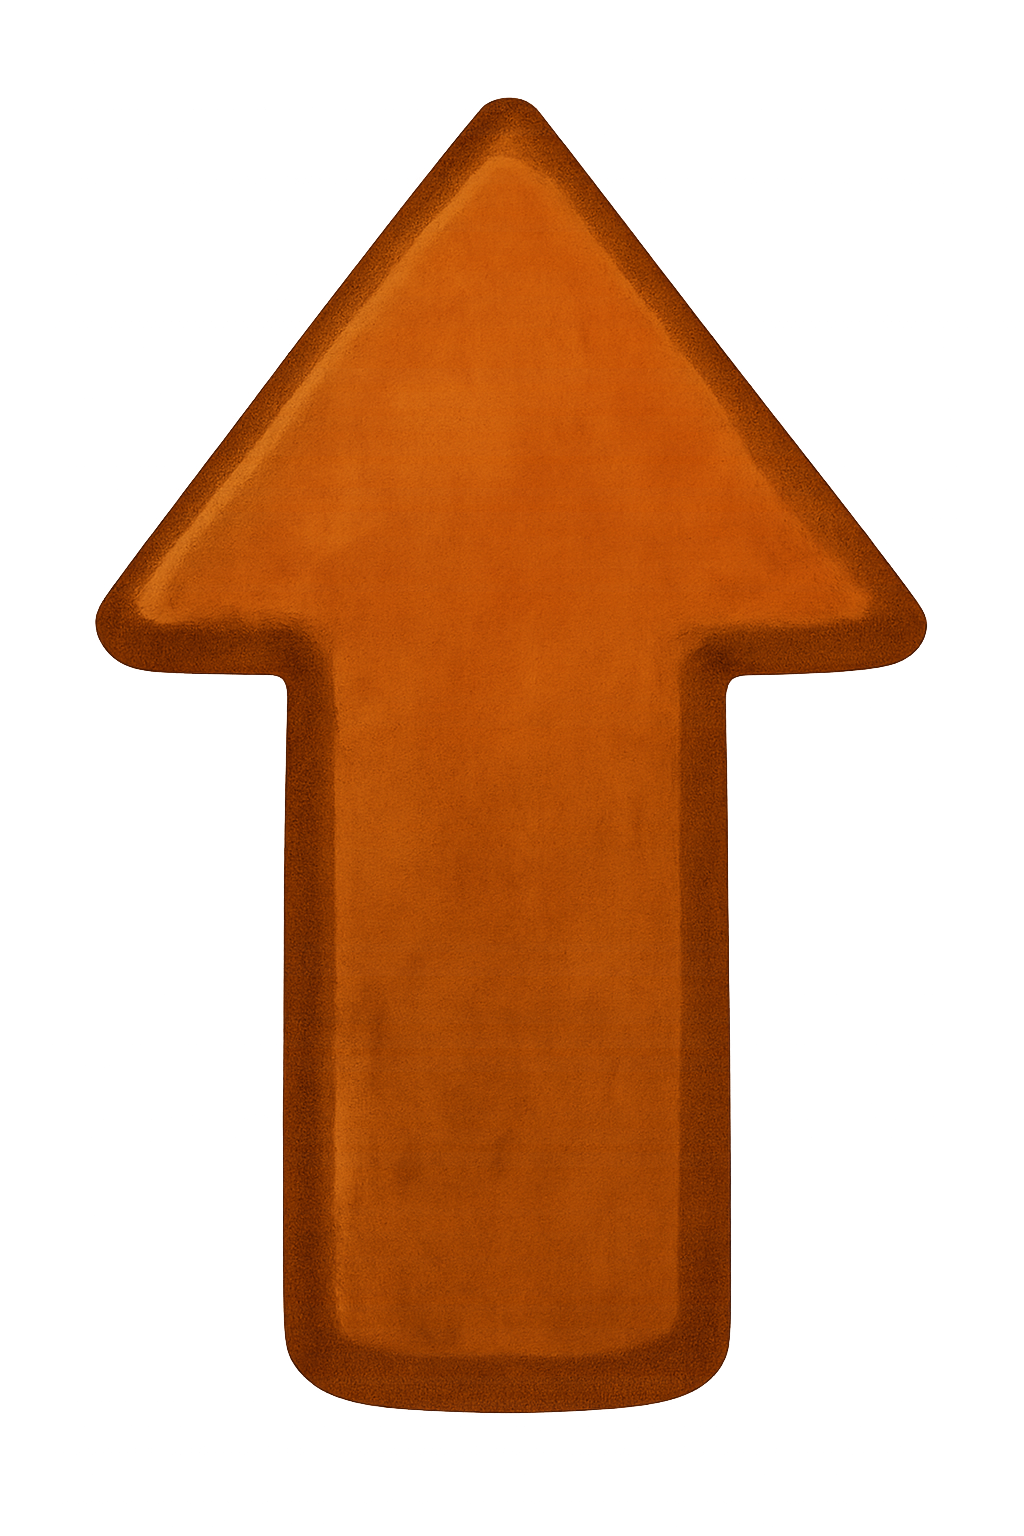
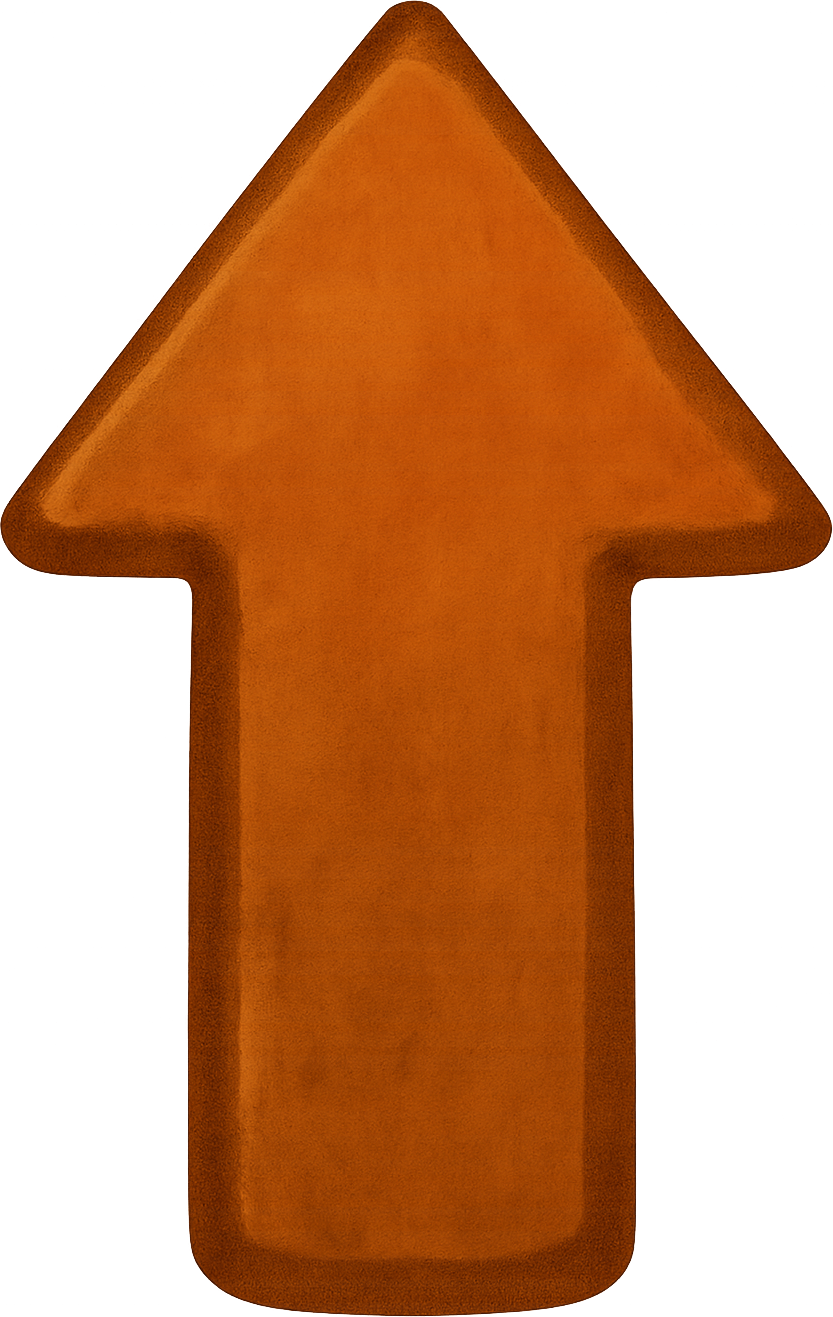
sprite cropping tool and fixed sprites

Changed region(s): [[0.0, 0.0, 0.9988, 1.0]]

diff --git a/crop_sprites.py b/crop_sprites.py
@@ -1,0 +1,254 @@
+#!/usr/bin/env python3
+"""
+Sprite Cropping Tool for RPG Game
+Automatically removes transparent/empty pixels around sprites to improve alignment and reduce file size.
+"""
+
+import os
+import sys
+from PIL import Image, ImageChops
+import argparse
+from pathlib import Path
+
+def get_bounding_box(image, alpha_threshold=10):
+    """
+    Get the bounding box of non-transparent pixels in an image.
+    Only considers pixels with alpha > threshold as "visible".
+    Returns (left, top, right, bottom) or None if image is completely transparent.
+    """
+    if image.mode != 'RGBA':
+        # Convert to RGBA if not already
+        image = image.convert('RGBA')
+    
+    # Get image data as numpy-like array
+    width, height = image.size
+    pixels = list(image.getdata())
+    
+    # Find bounds of pixels with alpha > threshold
+    left = width
+    top = height  
+    right = 0
+    bottom = 0
+    
+    found_pixel = False
+    
+    for y in range(height):
+        for x in range(width):
+            pixel_index = y * width + x
+            r, g, b, a = pixels[pixel_index]
+            
+            if a > alpha_threshold:  # Pixel is visible enough
+                found_pixel = True
+                left = min(left, x)
+                right = max(right, x + 1)  # +1 because crop uses exclusive right/bottom
+                top = min(top, y)
+                bottom = max(bottom, y + 1)  # +1 because crop uses exclusive right/bottom
+    
+    if not found_pixel:
+        return None
+        
+    return (left, top, right, bottom)
+
+def crop_sprite(input_path, output_path=None, backup=True, alpha_threshold=10):
+    """
+    Crop a single sprite image to remove transparent borders.
+    
+    Args:
+        input_path (str): Path to input image
+        output_path (str): Path for output image (defaults to overwrite input)
+        backup (bool): Whether to create backup of original
+        alpha_threshold (int): Alpha threshold for considering pixels visible
+    
+    Returns:
+        tuple: (success, message, (original_size, new_size))
+    """
+    try:
+        # Open the image
+        with Image.open(input_path) as img:
+            original_size = img.size
+            
+            # Get bounding box of non-transparent pixels
+            bbox = get_bounding_box(img, alpha_threshold)
+            
+            if bbox is None:
+                return False, f"Image is completely transparent: {input_path}", (original_size, original_size)
+            
+            left, top, right, bottom = bbox
+            
+            # Check if cropping is needed
+            if left == 0 and top == 0 and right == img.width and bottom == img.height:
+                return True, f"No cropping needed: {input_path}", (original_size, original_size)
+            
+            # Crop the image
+            cropped = img.crop(bbox)
+            new_size = cropped.size
+            
+            # Determine output path
+            if output_path is None:
+                output_path = input_path
+                
+                # Create backup if requested
+                if backup:
+                    backup_path = input_path.replace('.png', '_original.png')
+                    if not os.path.exists(backup_path):
+                        img.save(backup_path)
+            
+            # Save cropped image
+            cropped.save(output_path, 'PNG', optimize=True)
+            
+            saved_pixels = (original_size[0] * original_size[1]) - (new_size[0] * new_size[1])
+            percentage_saved = (saved_pixels / (original_size[0] * original_size[1])) * 100
+            
+            return True, f"Cropped: {input_path} | {original_size} -> {new_size} | {percentage_saved:.1f}% pixels saved", (original_size, new_size)
+            
+    except Exception as e:
+        return False, f"Error processing {input_path}: {str(e)}", (None, None)
+
+def find_sprite_files(directory):
+    """Find all PNG files in the directory and subdirectories."""
+    sprite_files = []
+    for root, dirs, files in os.walk(directory):
+        for file in files:
+            if file.lower().endswith('.png') and not file.endswith('_original.png'):
+                sprite_files.append(os.path.join(root, file))
+    return sprite_files
+
+def test_crop(input_path):
+    """Test function to verify cropping removes ALL transparent borders."""
+    try:
+        with Image.open(input_path) as img:
+            print(f"\nTesting: {input_path}")
+            print(f"Original size: {img.size}")
+            
+            bbox = get_bounding_box(img)
+            if bbox:
+                left, top, right, bottom = bbox
+                print(f"Content bounds: left={left}, top={top}, right={right}, bottom={bottom}")
+                print(f"Transparent borders: left={left}px, top={top}px, right={img.width-right}px, bottom={img.height-bottom}px")
+                
+                if left > 0 or top > 0 or right < img.width or bottom < img.height:
+                    print("✓ Cropping needed - transparent borders detected")
+                else:
+                    print("✓ No transparent borders - already optimally cropped")
+            else:
+                print("✗ Image is completely transparent")
+                
+    except Exception as e:
+        print(f"✗ Error testing {input_path}: {e}")
+
+def main():
+    parser = argparse.ArgumentParser(description='Crop transparent borders from game sprites')
+    parser.add_argument('path', nargs='?', default='assets', 
+                       help='Path to sprite file or directory (default: assets)')
+    parser.add_argument('--no-backup', action='store_true',
+                       help='Don\'t create backup files')
+    parser.add_argument('--output-dir', '-o', type=str,
+                       help='Output directory for cropped sprites')
+    parser.add_argument('--preview', action='store_true',
+                       help='Preview what would be cropped without making changes')
+    parser.add_argument('--test', action='store_true',
+                       help='Test mode - analyze transparent borders in detail')
+    parser.add_argument('--alpha-threshold', type=int, default=10,
+                       help='Alpha threshold for considering pixels visible (default: 10)')
+    
+    args = parser.parse_args()
+    
+    # Check if PIL is available
+    try:
+        from PIL import Image, ImageChops
+    except ImportError:
+        print("Error: PIL (Pillow) is required. Install with: pip install Pillow")
+        return 1
+    
+    # Determine what to process
+    if os.path.isfile(args.path):
+        sprite_files = [args.path]
+    elif os.path.isdir(args.path):
+        sprite_files = find_sprite_files(args.path)
+    else:
+        print(f"Error: Path '{args.path}' does not exist")
+        return 1
+    
+    if not sprite_files:
+        print(f"No PNG sprite files found in '{args.path}'")
+        return 0
+    
+    print(f"Found {len(sprite_files)} sprite files to process...")
+    print("-" * 60)
+    
+    total_processed = 0
+    total_success = 0
+    total_pixels_saved = 0
+    total_files_changed = 0
+    
+    for sprite_file in sprite_files:
+        if args.test:
+            # Test mode - detailed analysis
+            test_crop(sprite_file)
+        elif args.preview:
+            # Preview mode - just analyze without changing
+            try:
+                with Image.open(sprite_file) as img:
+                    bbox = get_bounding_box(img, args.alpha_threshold)
+                    if bbox:
+                        left, top, right, bottom = bbox
+                        original_size = img.size
+                        new_size = (right - left, bottom - top)
+                        
+                        if left == 0 and top == 0 and right == img.width and bottom == img.height:
+                            print(f"✓ No crop needed: {sprite_file}")
+                        else:
+                            saved_pixels = (original_size[0] * original_size[1]) - (new_size[0] * new_size[1])
+                            percentage_saved = (saved_pixels / (original_size[0] * original_size[1])) * 100
+                            print(f"➤ Would crop: {sprite_file} | {original_size} -> {new_size} | {percentage_saved:.1f}% pixels")
+                            print(f"  Borders: L={left}px T={top}px R={img.width-right}px B={img.height-bottom}px")
+                            total_files_changed += 1
+                            total_pixels_saved += saved_pixels
+                    else:
+                        print(f"⚠ Completely transparent: {sprite_file}")
+            except Exception as e:
+                print(f"✗ Error analyzing {sprite_file}: {e}")
+        else:
+            # Actual processing
+            output_path = None
+            if args.output_dir:
+                # Create output directory structure
+                rel_path = os.path.relpath(sprite_file, args.path if os.path.isdir(args.path) else os.path.dirname(args.path))
+                output_path = os.path.join(args.output_dir, rel_path)
+                os.makedirs(os.path.dirname(output_path), exist_ok=True)
+            
+            success, message, sizes = crop_sprite(sprite_file, output_path, not args.no_backup, args.alpha_threshold)
+            
+            if success:
+                print(f"✓ {message}")
+                total_success += 1
+                if sizes[0] and sizes[1] and sizes[0] != sizes[1]:
+                    total_files_changed += 1
+                    saved_pixels = (sizes[0][0] * sizes[0][1]) - (sizes[1][0] * sizes[1][1])
+                    total_pixels_saved += saved_pixels
+            else:
+                print(f"✗ {message}")
+        
+        total_processed += 1
+    
+    print("-" * 60)
+    if args.preview:
+        print(f"Preview Summary:")
+        print(f"  Files analyzed: {total_processed}")
+        print(f"  Files that would be cropped: {total_files_changed}")
+        print(f"  Total pixels that would be saved: {total_pixels_saved:,}")
+        print(f"\nRun without --preview to apply changes")
+    else:
+        print(f"Processing Summary:")
+        print(f"  Files processed: {total_processed}")
+        print(f"  Files successfully processed: {total_success}")
+        print(f"  Files actually cropped: {total_files_changed}")
+        print(f"  Total pixels saved: {total_pixels_saved:,}")
+        
+        if not args.no_backup and total_files_changed > 0:
+            print(f"  Original files backed up with '_original' suffix")
+    
+    return 0
+
+if __name__ == "__main__":
+    sys.exit(main())
